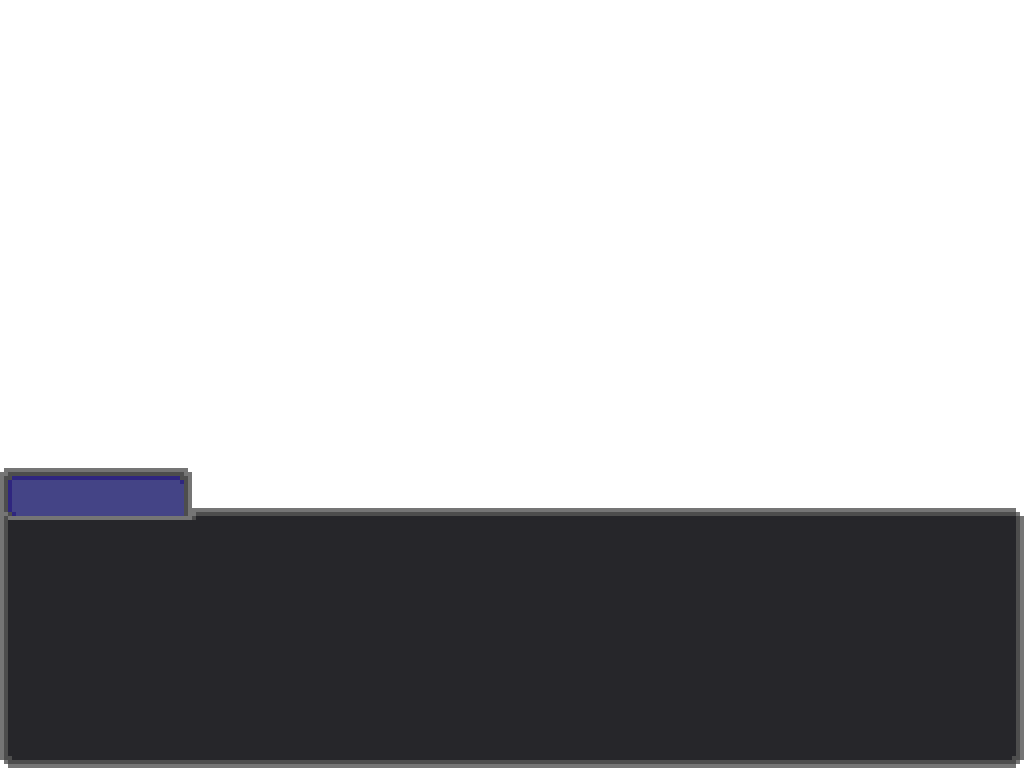
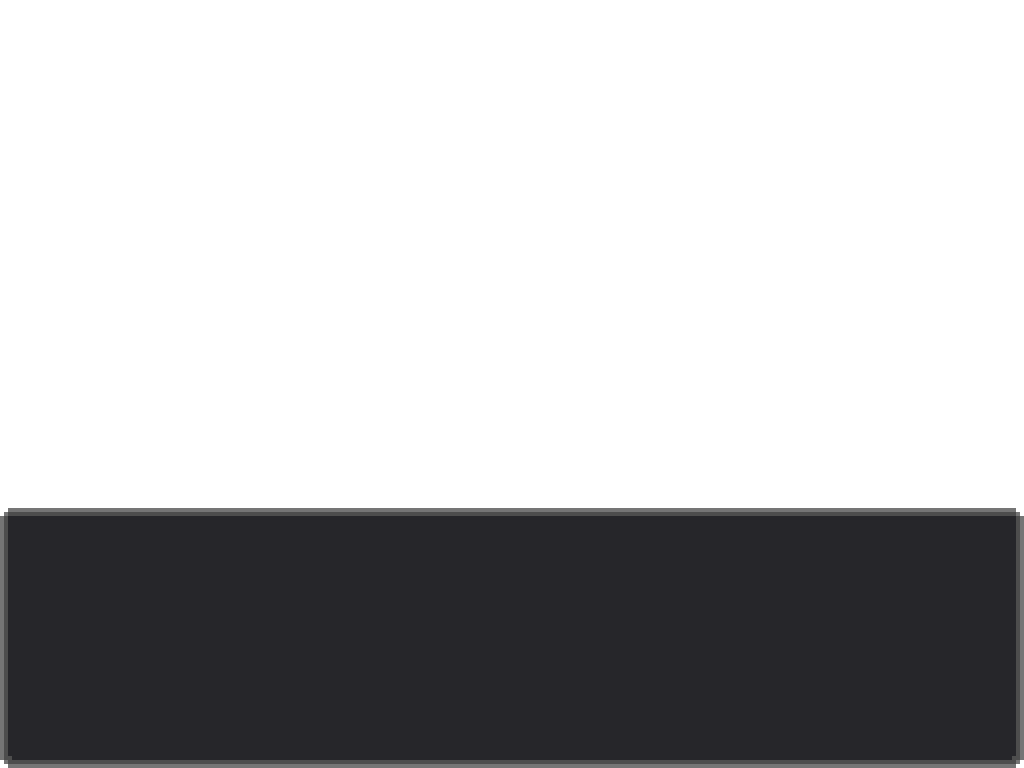
Implemented placeholder dialogue box

Changed region(s): [[0.0, 0.5938, 0.1875, 0.6875]]

diff --git a/ini-miney-extension/options/app.css b/ini-miney-extension/options/app.css
@@ -1,5 +1,10 @@
 @import url('https://fonts.googleapis.com/css2?family=Roboto:wght@300;400&display=swap');
 
+@font-face {
+    font-family: igiari;
+    src: url(assets/igiari/Igiari.ttf);
+}
+
 :root {
     color-scheme: dark;
     --color-primary: #2096f3;
@@ -75,6 +80,7 @@ body {
     top: 10%;
     background: url(assets/background.png);
     background-size: cover;
+    font-family: igiari;
 }
 
 .main * {
@@ -85,15 +91,6 @@ body {
     width: 100%;
     height: 100%;
     image-rendering: pixelated;
-}
-
-#folder-input {
-    color: transparent;
-    font-size: x-large;
-    position: absolute;
-    z-index: 500;
-    top: 80%;
-    left: 2%;
 }
 
 .fill {
@@ -126,4 +123,17 @@ body {
 
 .hidden {
     display: none;
+}
+
+.dialogue-text {
+    font-size: var(--dialogue-font-size);
+    position: absolute;
+    left: 3%;
+    top: 69%;
+    opacity: 0.9;
+}
+
+#folder-input {
+    color: transparent;
+    font-size: calc(var(--dialogue-font-size)/1.5);
 }

diff --git a/ini-miney-extension/options/app.html b/ini-miney-extension/options/app.html
@@ -14,9 +14,12 @@
         <div class="main">
             <div class="fill hover-overlay"></div>
             <div class="fill drag-overlay hidden">&mdash; Drop Folder &mdash;</div>
-            <input id="folder-input" type="file" title=" " webkitdirectory directory multiple/>
             <img src="assets/stand-a.gif" class="pixel fill">
             <img src="assets/textbox.png" class="pixel fill">
+            <div class="dialogue-text">
+                Drop some character folders here,<br>or click
+                <input id="folder-input" type="file" title=" " webkitdirectory directory multiple/>
+            </div>
         </div>
     </body>
 </html>
